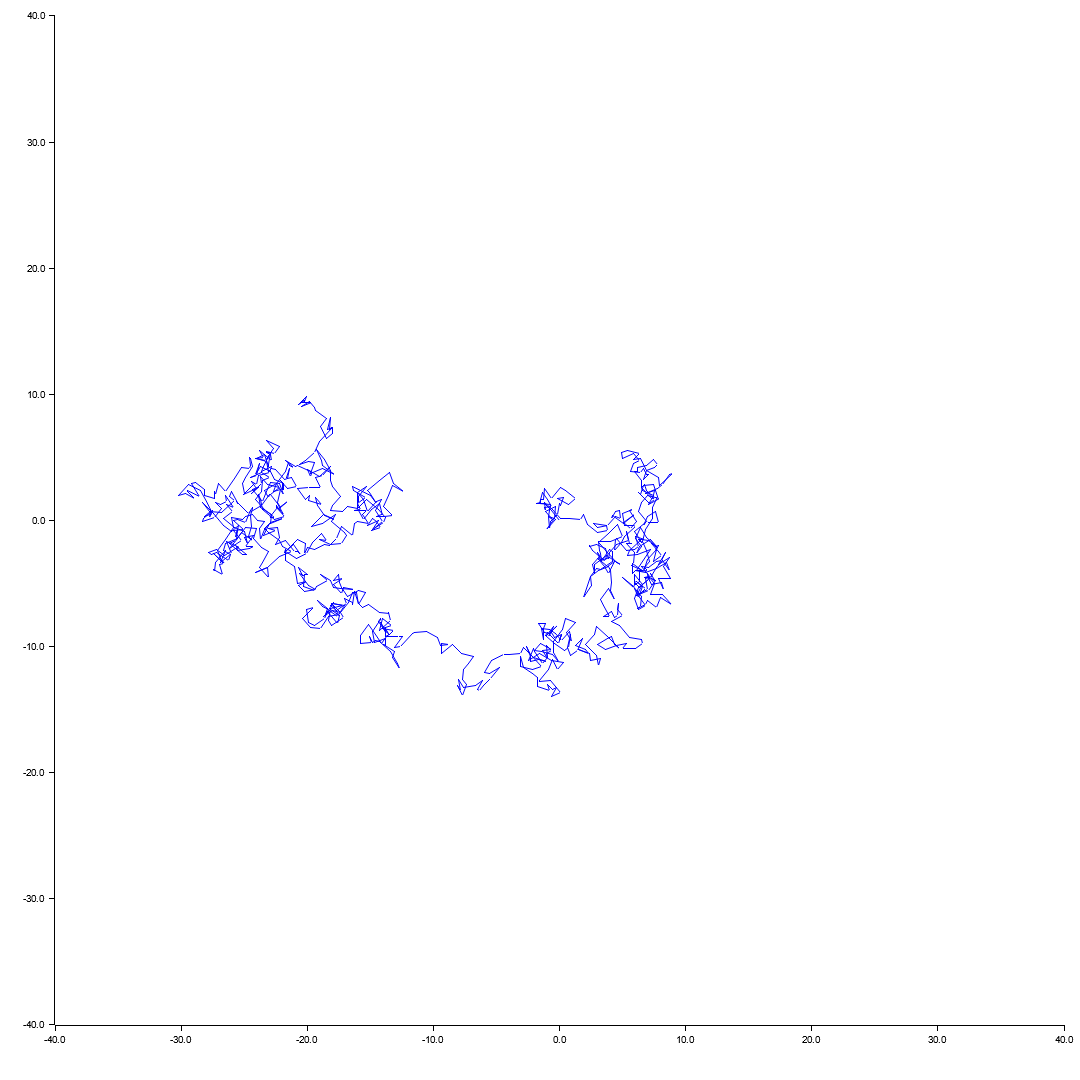
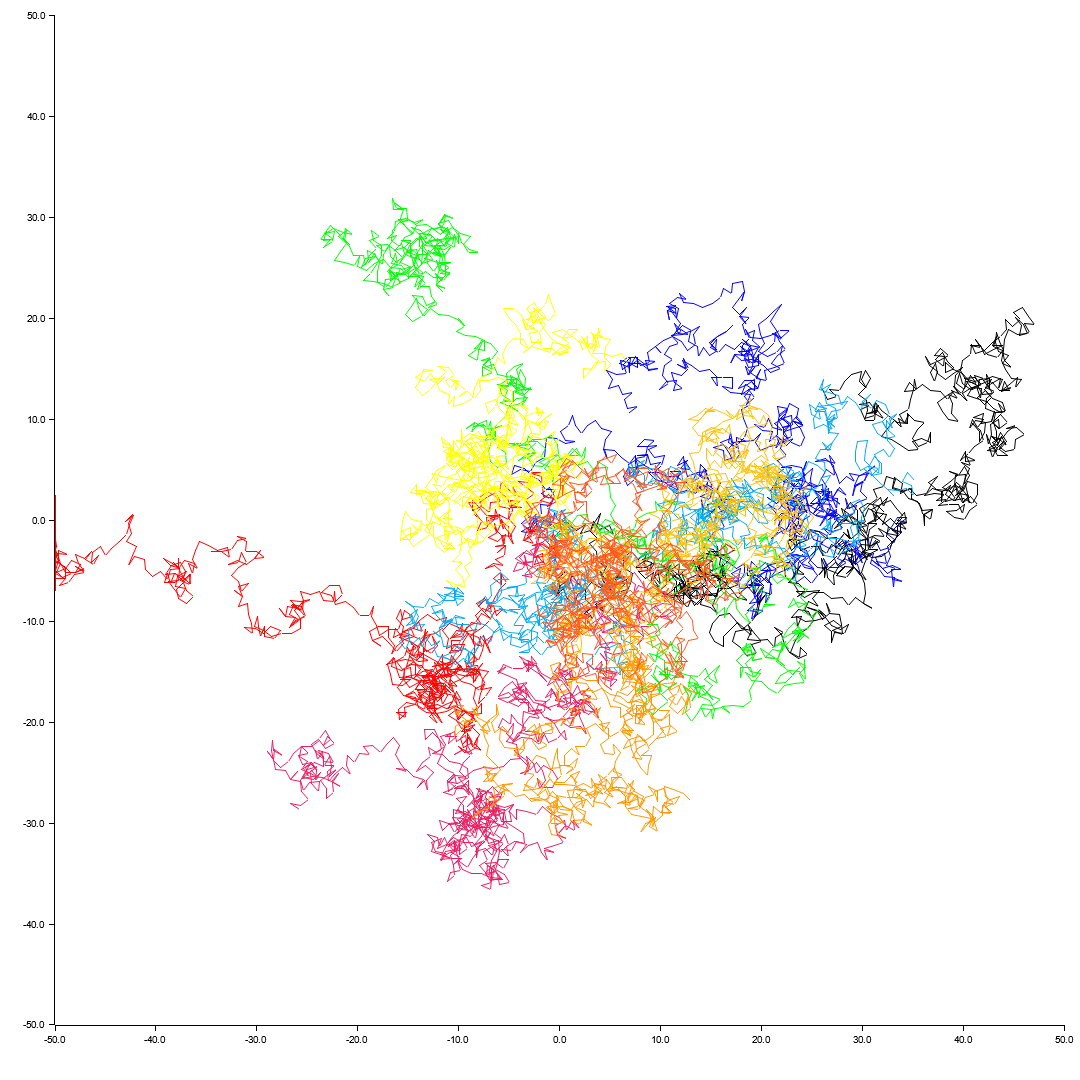
Normalise 2d walk and plot serveral

diff --git a/src/main.rs b/src/main.rs
@@ -4,14 +4,19 @@ use plotters::{
     chart::{ChartBuilder, LabelAreaPosition},
     prelude::{BitMapBackend, IntoDrawingArea},
     series::LineSeries,
-    style::{BLUE, WHITE},
+    style::{
+        full_palette::{AMBER, DEEPORANGE, LIGHTBLUE, ORANGE, PINK},
+        BLACK, BLUE, GREEN, RED, WHITE, YELLOW,
+    },
 };
 
 pub mod rand;
 mod random_walk;
 
 fn main() {
-    let data = random_walk::random_walk_2d(1000);
+    let colours = [
+        BLUE, BLACK, RED, GREEN, LIGHTBLUE, YELLOW, PINK, ORANGE, AMBER, DEEPORANGE,
+    ];
 
     let root_area =
         BitMapBackend::new(Path::new("./output/random_walk.png"), (1080, 1080)).into_drawing_area();
@@ -21,11 +26,15 @@ fn main() {
         .margin(15)
         .set_label_area_size(LabelAreaPosition::Left, 40)
         .set_label_area_size(LabelAreaPosition::Bottom, 40)
-        .build_cartesian_2d(-40.0..40.0, -40.0..40.0)
+        .build_cartesian_2d(-50.0..50.0, -50.0..50.0)
         .unwrap();
 
     ctx.configure_mesh().disable_mesh().draw().unwrap();
 
-    ctx.draw_series(LineSeries::new(data.iter().map(|point| *point), BLUE))
-        .unwrap();
+    for colour in colours {
+        let data = random_walk::random_walk_2d(1000);
+
+        ctx.draw_series(LineSeries::new(data.iter().map(|point| *point), colour))
+            .unwrap();
+    }
 }

diff --git a/src/random_walk.rs b/src/random_walk.rs
@@ -11,8 +11,12 @@ pub fn random_walk_2d(n: i64) -> Vec<(f64, f64)> {
     for _ in 0..n {
         points.push((x, y));
 
-        x += (rng.gen::<f64>() - 0.5) * 2.0;
-        y += (rng.gen::<f64>() - 0.5) * 2.0;
+        let dx = (rng.gen::<f64>() - 0.5) * 2.0;
+        let dy = (rng.gen::<f64>() - 0.5) * 2.0;
+        let l = (dx.powi(2) + dy.powi(2)).sqrt();
+
+        x += dx * (1.0 / l);
+        y += dy * (1.0 / l);
     }
 
     points
